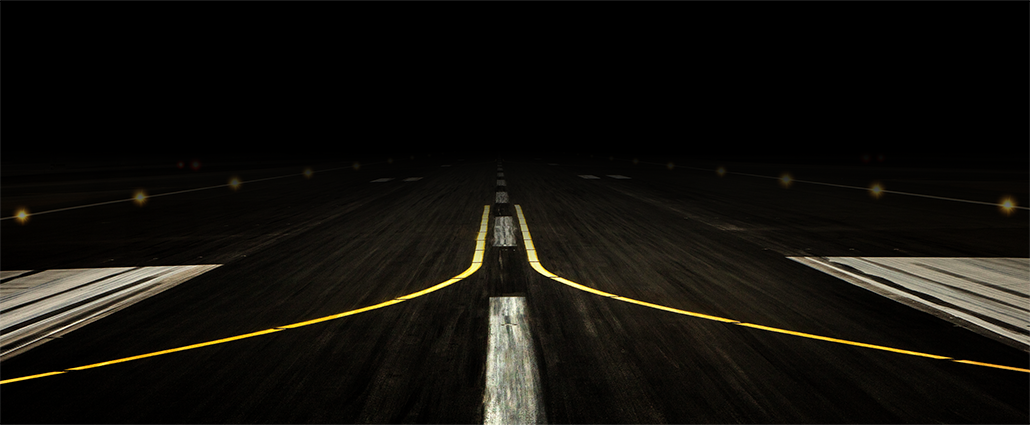
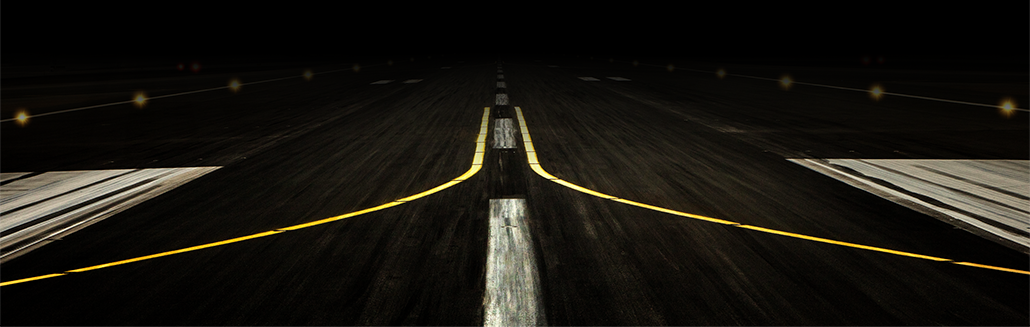
rettelser

diff --git a/app/views/faq.html b/app/views/faq.html
@@ -9,50 +9,56 @@
 		<a href="mailto:hangar@mercedes-benz-sprinter.dk">hangar@mercedes-benz-sprinter.dk</a>.
 	</p>
 
-	<h2 class="topMargin">
-		Hvor kan jeg parkere?
-	</h2>
+	<div class="col-md-12 no-padding topMargin">
+		<img src="images/flytavle.png" class="img-fluid" style="max-width: 100%; height: auto; width: inherit;">
+	</div>
 
-	<p class="" style="margin-top: 10px;">
-		Lorem ipsum dolor sit amet, consectetuer adipiscing elit, sed diam nonummy nibh euismod tincidunt ut laoreet dolore magna aliquam erat volutpat
-	</p>
+	<div class="col-md-12 no-padding topMargin">
+		<h2>
+			Hvor kan jeg parkere?
+		</h2>
 
-	<h2 class="topMargin">
-		Hvordan booker jeg en prøvekørsel?
-	</h2>
+		<p class="" style="margin-top: 10px;">
+			Lorem ipsum dolor sit amet, consectetuer adipiscing elit, sed diam nonummy nibh euismod tincidunt ut laoreet dolore magna aliquam erat volutpat
+		</p>
 
-	<p class="" style="margin-top: 10px;">
-		Når du tilmelder dig, kan du booke en prøvekørsel. Der er et begrænset antal pladser, og vi tildeler dem efter først-til-mølle-princippet. Vi giver dig besked om, du har fået en tid til prøvekørslen, når du får tilsendt din billet (har du allerede tilmeldt dig arrangementet uden at booke en prøvekørsel, så skriv til 
+		<h2 class="topMargin">
+			Hvordan booker jeg en prøvekørsel?
+		</h2>
 
-		<a href="mailto:hangar@mercedes-benz-sprinter.dk">
-			hangar@mercedes-benz-sprinter.dk
-		</a>
+		<p class="" style="margin-top: 10px;">
+			Når du tilmelder dig, kan du booke en prøvekørsel. Der er et begrænset antal pladser, og vi tildeler dem efter først-til-mølle-princippet. Vi giver dig besked om, du har fået en tid til prøvekørslen, når du får tilsendt din billet (har du allerede tilmeldt dig arrangementet uden at booke en prøvekørsel, så skriv til 
 
-		, og vi vil se om der er en ledig tid).
-	</p>
+			<a href="mailto:hangar@mercedes-benz-sprinter.dk">
+				hangar@mercedes-benz-sprinter.dk
+			</a>
 
-	<h2 class="topMargin">
-		Hvad gør jeg hvis jeg har glemt min billet?
-	</h2>
+			, og vi vil se om der er en ledig tid).
+		</p>
 
-	<p class="" style="margin-top: 10px;">
-		Lorem ipsum dolor sit amet, consectetuer adipiscing elit, sed diam nonummy nibh euismod tincidunt ut laoreet dolore magna aliquam erat volutpat
-	</p>
+		<h2 class="topMargin">
+			Hvad gør jeg hvis jeg har glemt min billet?
+		</h2>
 
-	<h2  class="topMargin">
-		Hvordan framelder jeg mig? 
-	</h2>
+		<p class="" style="margin-top: 10px;">
+			Lorem ipsum dolor sit amet, consectetuer adipiscing elit, sed diam nonummy nibh euismod tincidunt ut laoreet dolore magna aliquam erat volutpat
+		</p>
 
-	<p class="" style="margin-top: 10px;">
-		Er du blevet forhindret i at deltage, efter du har tilmeldt dig, beder vi dig sende en mail til 
-		<a href="mailto:hangar@mercedes-benz-sprinter.dk">
-			hangar@mercedes-benz-sprinter.dk
-		</a>
+		<h2  class="topMargin">
+			Hvordan framelder jeg mig? 
+		</h2>
 
-		med ”Afbud” i emnefeltet. 
+		<p class="" style="margin-top: 10px;">
+			Er du blevet forhindret i at deltage, efter du har tilmeldt dig, beder vi dig sende en mail til 
+			<a href="mailto:hangar@mercedes-benz-sprinter.dk">
+				hangar@mercedes-benz-sprinter.dk
+			</a>
 
-		<br/>
+			med ”Afbud” i emnefeltet. 
 
-		I mailen skriver du dit navn, e-mail og om du har booket en prøvekørsel. 
-	</p>
+			<br/>
+
+			I mailen skriver du dit navn, e-mail og om du har booket en prøvekørsel. 
+		</p>
+	</div>
 </div>

diff --git a/app/index.html b/app/index.html
@@ -34,10 +34,6 @@
 
 	<nav class="navbar">
 		<div class="navbar-header">
-			<!-- <a class="navbar-brand" href="#">
-				<img src="images/favicon-32x32.png">
-			</a> -->
-
 			<button type="button" class="navbar-toggle" data-toggle="collapse" data-target=".navbar-collapse">
 				<span class="icon-bar">
 				</span>
@@ -50,7 +46,7 @@
 			</button>
 		</div>
 
-		<div class="navbar-collapse collapse" style="margin-bottom: 20px;">
+		<div class="navbar-collapse collapse no-padding" style="margin-bottom: 20px;">
 			<ul class="nav navbar-nav">
 				<li>
 					<a href="#!/forside" ng-click="selectPage('forside');" ng-class="{selected : page == 'forside'}">
@@ -92,10 +88,8 @@
 		<div class="col-md-12 no-padding" ng-view>
 
 		</div>
-	</div>
 
-	<div class="footer" style="padding: 0px;">
-		<div class="row mt-5">
+		<div class="col-md-12 mt-5">
 			<div class="col mt-5">
 				<p class="text-center">
 					Ankommer om
@@ -103,17 +97,19 @@
 			</div>
 		</div>
 
-		<div class="row mt-2">
+		<div class="col-md-12 mt-2">
 			<div class="col">
-				<p class="text-center">
+				<p class="text-center" style="margin-bottom: 0px;">
 					<span id="counter">
 						00;00;00;00
 					</span>
 				</p>
 			</div>
 		</div>
+	</div>
 
-		<img src="images/bund_banner.png" class="img-fluid" style="max-width: 100%; height: auto; width: -webkit-fill-available;">
+	<div class="footer" style="padding: 0px;">
+		<img src="images/bund_banner.png" class="img-fluid footerImage" style="max-width: 100%; height: auto; width: 100%;">
 	</div>
 
 	<script type="text/javascript">

diff --git a/app/views/practicalInformation.html b/app/views/practicalInformation.html
@@ -3,7 +3,13 @@
 		Praktisk info.
 	</h1>
 
-	<p class="topMargin">
-		Lorem ipsum dolor sit amet, consectetuer adipiscing elit, sed diam nonummy nibh euismod tincidunt ut laoreet dolore magna aliquam erat volutpat. Ut wisi enim ad minim veniam, quis nostrud exerci tation ullamcorper suscipit lobortis nisl ut aliquip ex ea commodo consequat. Duis autem vel eum iriure dolor in hendrerit in vulputate velit esse molestie consequat, vel illum dolore eu feugiat nulla facilisis at vero eros et accumsan et iusto odio dignissim qui blandit praesent luptatum zzril delenit augue duis dolore te feugait nulla facilisi. 
-	</p>
+	<div class="col-md-12 no-padding topMargin">
+		<img src="images/flytavle.png" class="img-fluid" style="max-width: 100%; height: auto; width: inherit;">
+	</div>
+
+	<div class="col-md-12 no-padding topMargin">
+		<p>
+			Lorem ipsum dolor sit amet, consectetuer adipiscing elit, sed diam nonummy nibh euismod tincidunt ut laoreet dolore magna aliquam erat volutpat. Ut wisi enim ad minim veniam, quis nostrud exerci tation ullamcorper suscipit lobortis nisl ut aliquip ex ea commodo consequat. Duis autem vel eum iriure dolor in hendrerit in vulputate velit esse molestie consequat, vel illum dolore eu feugiat nulla facilisis at vero eros et accumsan et iusto odio dignissim qui blandit praesent luptatum zzril delenit augue duis dolore te feugait nulla facilisi. 
+		</p>
+	</div>		
 </div>

diff --git a/app/styles/main.scss b/app/styles/main.scss
@@ -100,7 +100,9 @@ a {
 }
 
 .navbar {
-	
+	width: 1145px;
+	margin-right: auto;
+	margin-left: auto;
 }
 
 ul.nav{
@@ -141,7 +143,7 @@ ul.nav li a{
 	margin: 0 4px; 
 	font-size: 30px;
 	color: #fff;
-	display: inline-block;
+	display: flex;
 	font-family: cacregular;
 }
 
@@ -207,6 +209,10 @@ Footer
 	border-top: unset;
 }
 
+.footerImage {
+	margin-top: -147px;
+}
+
 h1, h2, h3 {
 	font-family: cacregular;
 	color: #fff;
@@ -222,13 +228,56 @@ p {
 	font-size : 20px;
 }
 
+@media (max-width: 1440px) {
+	.navbar {
+		width: 1145px;
+		margin-right: auto; 
+		margin-left: auto;	
+	}
+}
+
+@media (max-width: 1024px) {
+	.navbar {
+		width: 950px;
+		margin-right: auto; 
+		margin-left: auto;	
+	}
+
+	.footerImage {
+		margin-top: -135px;
+	}
+}
+
+@media (max-width: 768px) {
+	.navbar {
+		width: 740px;
+		margin-right: auto; 
+		margin-left: auto;	
+	}
+
+	.header {
+		margin : 0 5px 40px 5px;
+	}
+
+	.footerImage {
+		margin-top: -115px;
+	}
+}
+
 @media (max-width: 767px) {
+	.navbar {
+		width: auto;
+		margin-right: auto; 
+		margin-left: auto;	
+	}
+
 	h1 {
 		font-weight: unset;
 	}
 
 	ul.nav {
 		display: grid;
+		justify-content: center;
 	}
 
 	.mobileTopMargin {
@@ -276,5 +325,15 @@ p {
 
 	.header {
 		margin: 0px 0px 20px 0px;
+	}
+
+	.footerImage {
+		margin-top: -80px;
+	}
+}
+
+@media (max-width: 375px) {
+	.footerImage {
+		margin-top: -70px;
 	}
 }

diff --git a/app/views/program.html b/app/views/program.html
@@ -1,16 +1,20 @@
-<div class="col-md-12">
+<div class="col-md-12 no-padding">
 	<h1>
 		Program.
 	</h1>
 </div>
 
-<div class="col-md-12 topMargin">
+<div class="col-md-12 topMargin no-padding">
 	<p style="margin-bottom: 20px;">
 		Glæd dig til nogle gode timer i Vilhelm Lauritzen Terminal:
 	</p>
 </div>
 
-<div class="col-md-12 programList">
+<div class="col-md-12 no-padding topMargin">
+	<img src="images/flytavle.png" class="img-fluid" style="max-width: 100%; height: auto; width: inherit;">
+</div>
+
+<div class="col-md-12 programList no-padding topMargin">
 	<p>
 		<span>
 			Kl. 17.00

diff --git a/app/views/mapOverview.html b/app/views/mapOverview.html
@@ -1,11 +1,15 @@
 <div class="col-md-12">
-	<div class="row no-padding">
+	<div class="col-md-12 no-padding">
 		<h1>
 			Kort.
 		</h1>
 	</div>
 
-	<div class="row topMargin">
+	<div class="col-md-12 no-padding topMargin">
+		<img src="images/flytavle.png" class="img-fluid" style="max-width: 100%; height: auto; width: inherit;">
+	</div>
+
+	<div class="col-md-12 no-padding topMargin">
 		<!-- Map 1 -->
 		<div class="col-md-6" style="padding-left: 0px;">
 			<img src="images/mapImage1.png" class="img-responsive">
